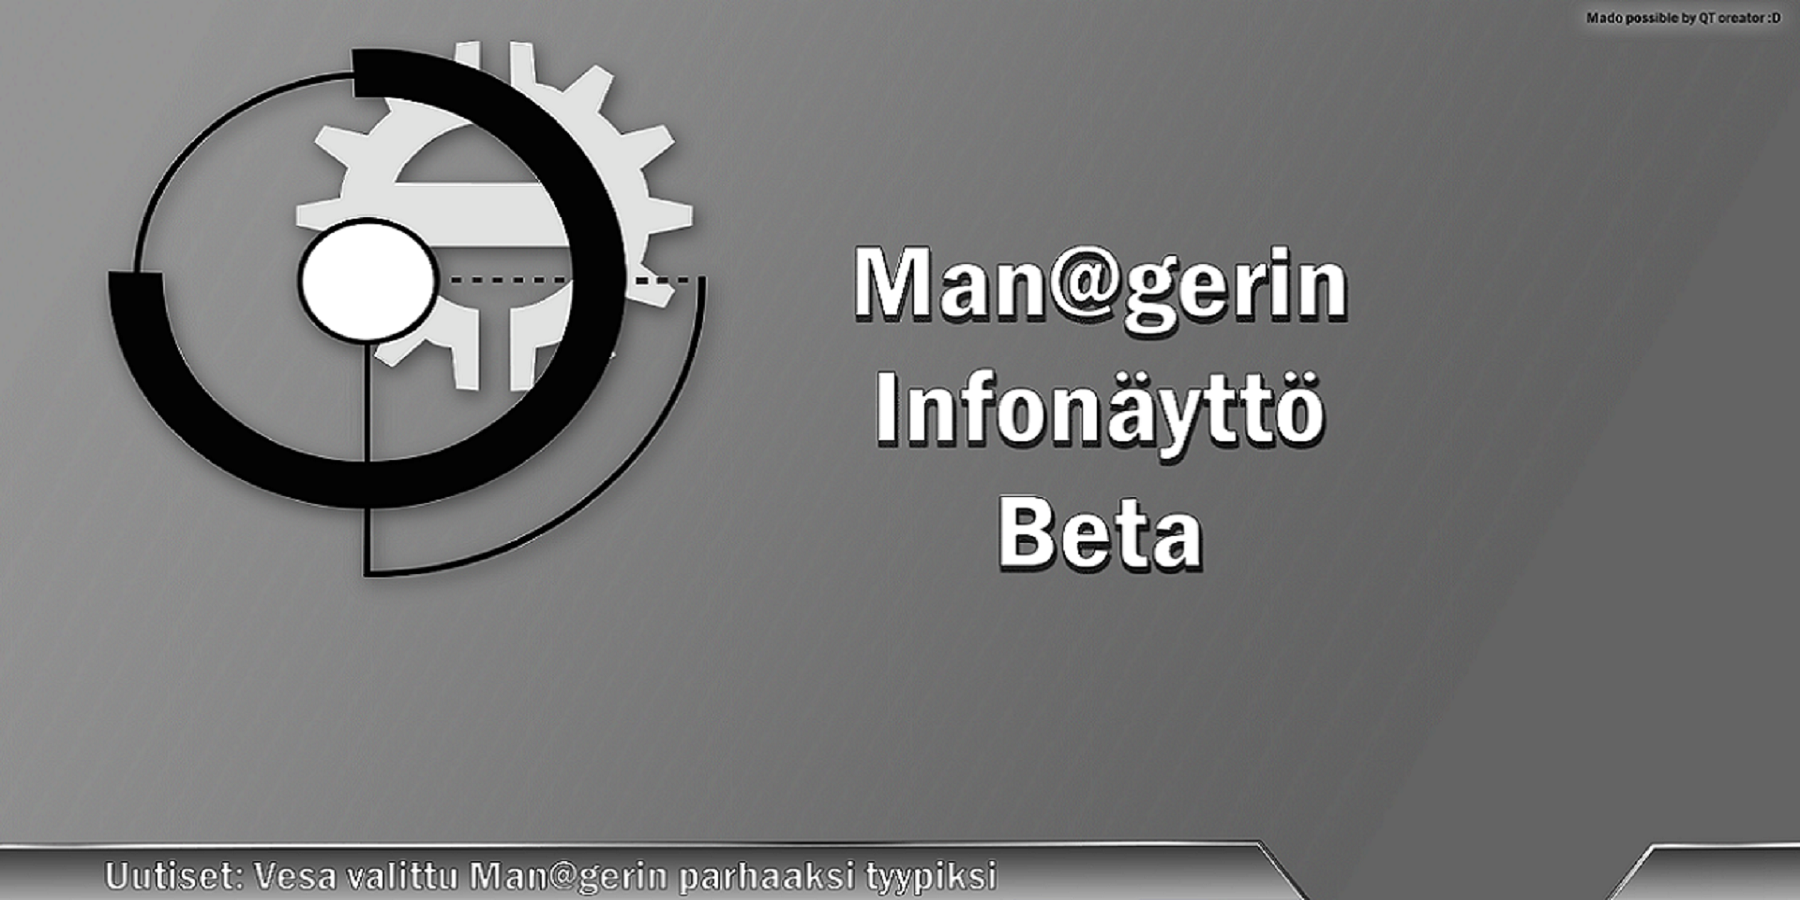
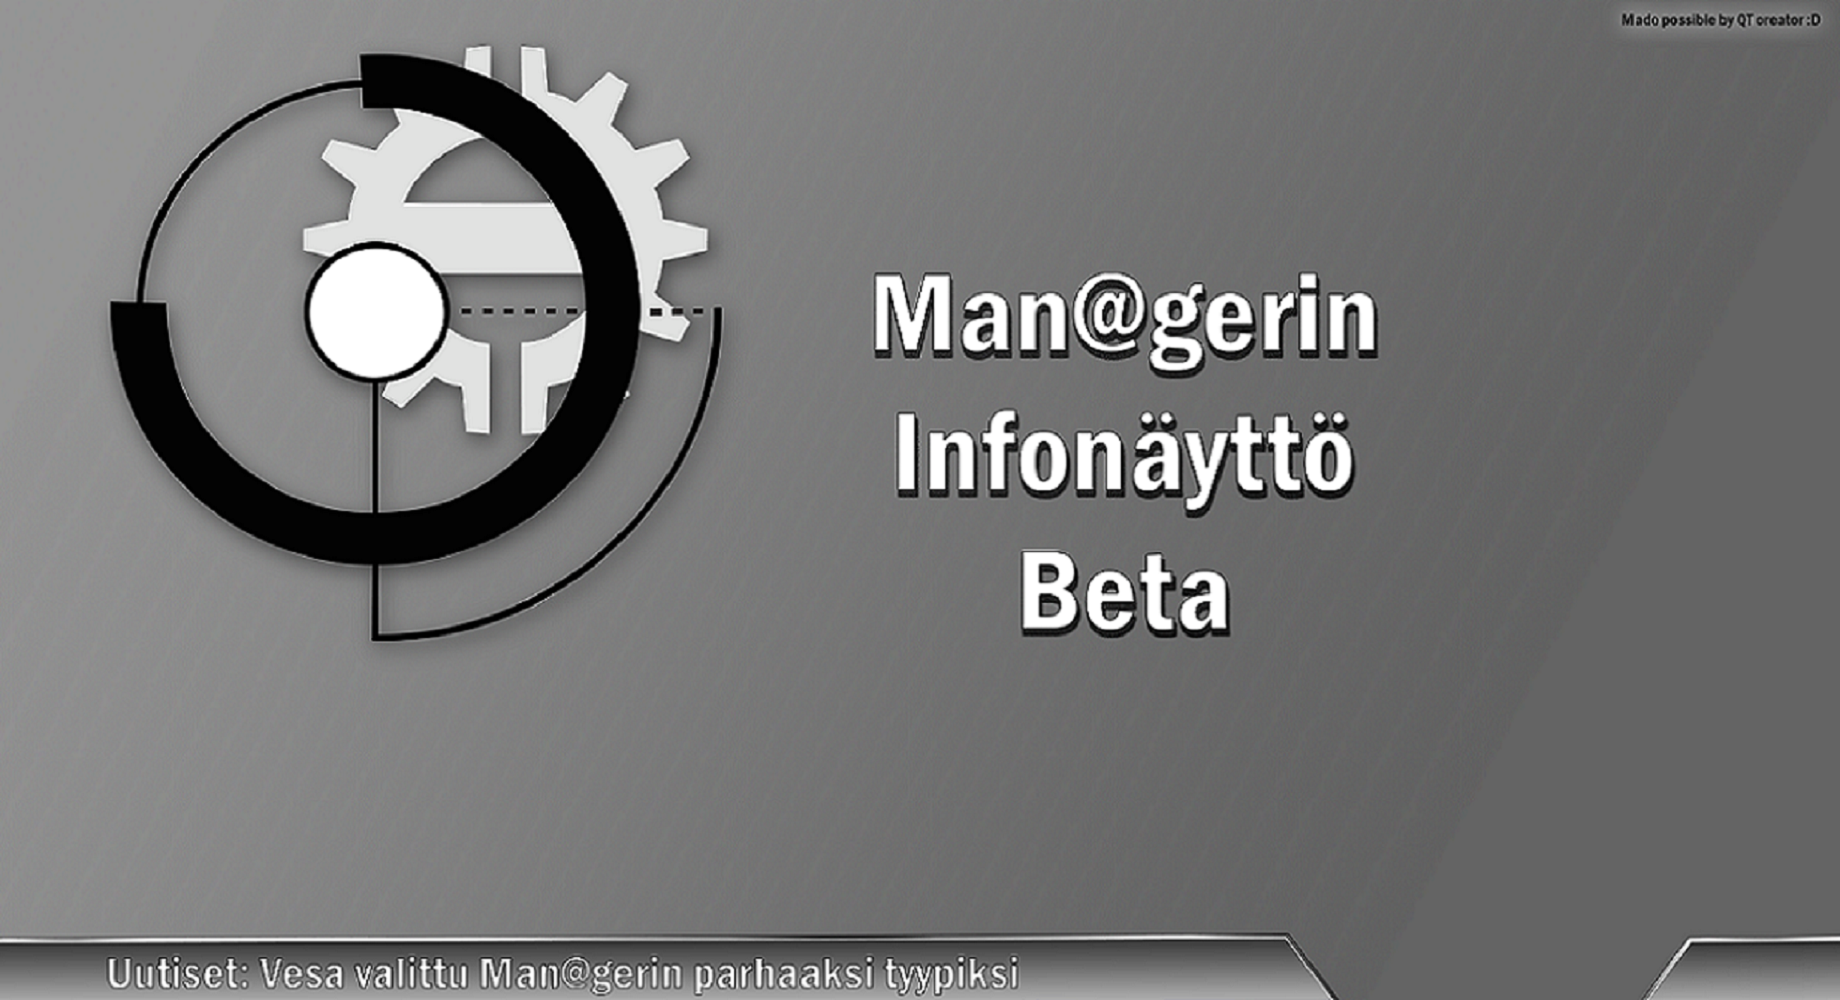
res

diff --git a/telegram_bot/ui_form.py b/telegram_bot/ui_form.py
@@ -21,17 +21,17 @@ class Ui_InfoScreen(object):
     def setupUi(self, InfoScreen):
         if not InfoScreen.objectName():
             InfoScreen.setObjectName(u"InfoScreen")
-        InfoScreen.resize(1800, 900)
+        InfoScreen.resize(1840, 1000)
         self.Clock = QLabel(InfoScreen)
         self.Clock.setObjectName(u"Clock")
-        self.Clock.setGeometry(QRect(1700, 800, 140, 60))
+        self.Clock.setGeometry(QRect(1650, 950, 140, 60))
         font = QFont()
         font.setPointSize(40)
         font.setStrikeOut(False)
         self.Clock.setFont(font)
         self.Background = QLabel(InfoScreen)
         self.Background.setObjectName(u"Background")
-        self.Background.setGeometry(QRect(0, 0, 1800, 900))
+        self.Background.setGeometry(QRect(0, 0, 1840, 1000))
         self.Background.setAutoFillBackground(False)
         self.Background.raise_()
         self.Clock.raise_()
